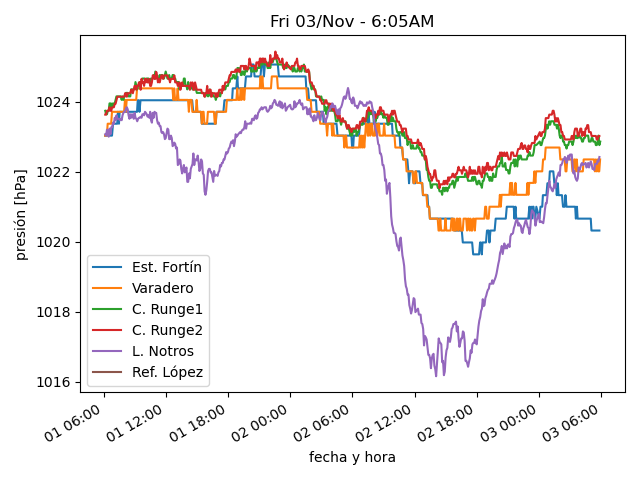
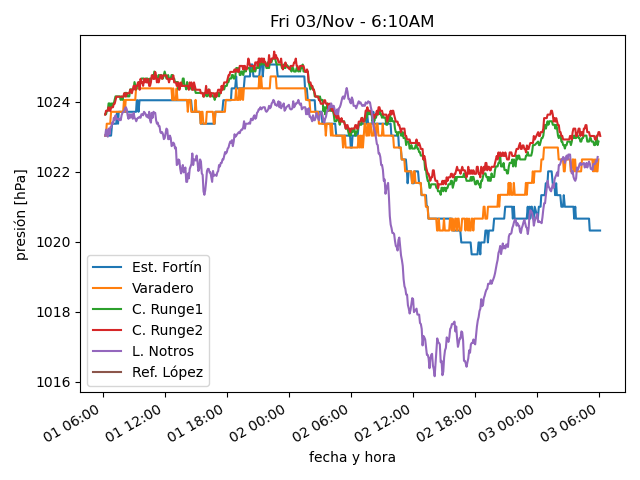
actualiza datos

diff --git a/estaciones/estacion4.html b/estaciones/estacion4.html
@@ -18,22 +18,22 @@
     </tr>
     <tr>
      <td class="stats_data">
-      5:49AM
+      6:04AM
      </td>
     </tr>
     <tr>
      <td class="stats_data">
-      5.3⁰C
+      5.0⁰C
      </td>
     </tr>
     <tr>
      <td class="stats_data">
-      -0.2⁰C
+      -0.3⁰C
      </td>
     </tr>
     <tr>
      <td class="stats_data">
-      68.1%
+      68.5%
      </td>
     </tr>
     <tr>
@@ -43,7 +43,7 @@
     </tr>
     <tr>
      <td class="stats_data">
-      1.1/1.8 km/hr SW
+      0.9/2.1 km/hr SW
      </td>
     </tr>
     <tr>
@@ -58,7 +58,7 @@
     </tr>
     <tr>
      <td class="stats_data">
-      0.0 W/m²
+      0.1 W/m²
      </td>
     </tr>
    </tbody>

diff --git a/estaciones/estacion1.html b/estaciones/estacion1.html
@@ -18,22 +18,22 @@
     </tr>
     <tr>
      <td class="stats_data">
-      5:49AM
+      6:03AM
      </td>
     </tr>
     <tr>
      <td class="stats_data">
-      6.6⁰C
+      6.3⁰C
      </td>
     </tr>
     <tr>
      <td class="stats_data">
-      0.2⁰C
+      0.1⁰C
      </td>
     </tr>
     <tr>
      <td class="stats_data">
-      63.7%
+      64.5%
      </td>
     </tr>
     <tr>
@@ -43,7 +43,7 @@
     </tr>
     <tr>
      <td class="stats_data">
-      17.8/23.6 km/hr WSW
+      11.3/15.3 km/hr SW
      </td>
     </tr>
     <tr>
